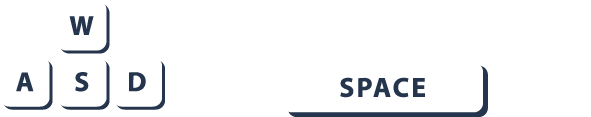
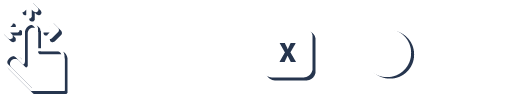
just added

diff --git a/index.html b/index.html
@@ -229,7 +229,7 @@ const frame = new Frame(scaling, width, height, color, outerColor, assets, path)
 
 
 
-		 	const hitBtn = new Circle(40,"#b4c1d8").pos(40,120,RIGHT,BOTTOM);
+		 	const hitBtn = new Circle(40,"#b4c1d8").pos(40,120,RIGHT,BOTTOM).drag();
 
 		 confirm.on("click", function() {
 
@@ -331,7 +331,7 @@ const frame = new Frame(scaling, width, height, color, outerColor, assets, path)
 
 				frame.on("keydown", e => {
 				// zog(e.keyCode);
-				if (e.keyCode == 32) { // spacebar
+				if (e.keyCode == 88) { // X KEY
 
 					  attack()
 				}
